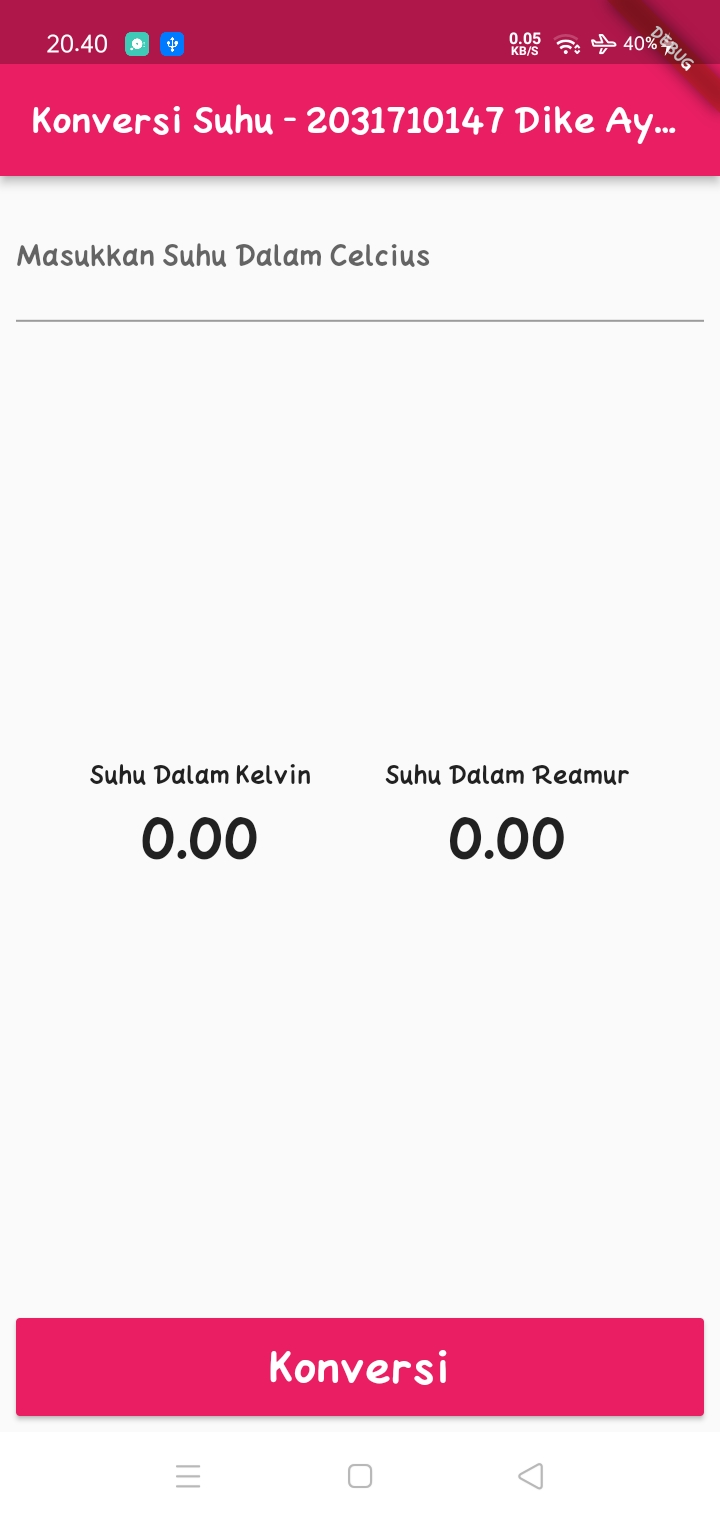
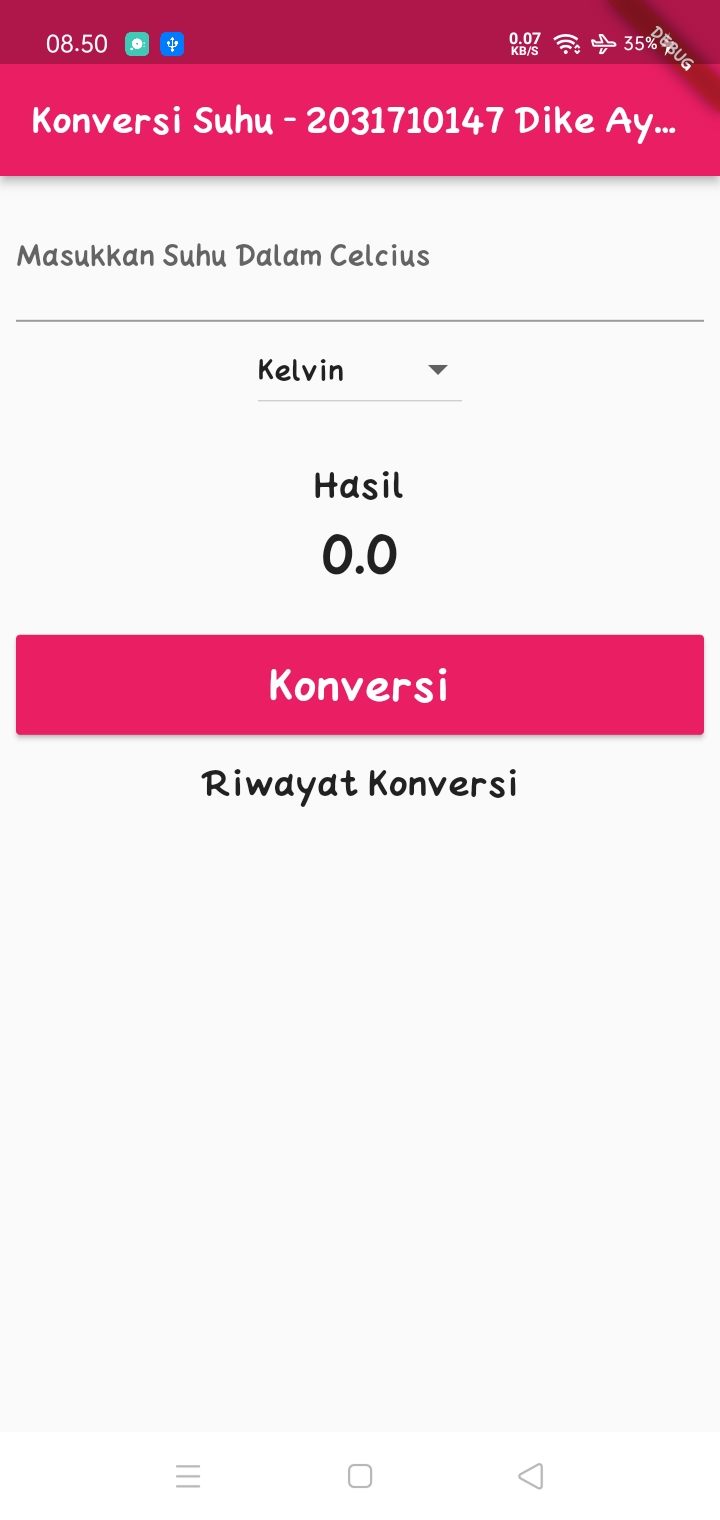
tugas4

diff --git a/lib/main.dart b/lib/main.dart
@@ -1,5 +1,7 @@
 import 'package:flutter/material.dart';
 import 'package:flutter/services.dart';
+import 'package:konversi_suhu/widget/result.dart';
+import 'package:konversi_suhu/widget/input.dart';
 
 void main() {
   runApp(const MyApp());
@@ -9,19 +11,27 @@ class MyApp extends StatefulWidget {
   const MyApp({Key? key}) : super(key: key);
 
   @override
-  State<MyApp> createState() => _MyAppState();
+  State<MyApp> createState() => MyAppState();
 }
 
-class _MyAppState extends State<MyApp> {
+class MyAppState extends State<MyApp> {
   double _inputUser = 0;
   double _kelvin = 0;
   double _reamur = 0;
+  double _fahrenheit = 0;
 
-  final temperaturController = TextEditingController();
+  var listItem = ["Kelvin", "Reamur", "Fahrenheit"];
+
+  final inputController = TextEditingController();
+
+  String _newValue = "Kelvin";
+  double _result = 0;
+
+  List<String> listViewItem = <String>[];
 
   @override
   void dispose() {
-    temperaturController.dispose();
+    inputController.dispose();
     super.dispose();
   }
 
@@ -41,39 +51,27 @@ class _MyAppState extends State<MyApp> {
           body: Container(
             margin: const EdgeInsets.all(8),
             child: Column(
-              mainAxisAlignment: MainAxisAlignment.spaceBetween,
+              mainAxisAlignment: MainAxisAlignment.start,
               children: [
-                TextFormField(
-                  controller: temperaturController,
-                  decoration: const InputDecoration(
-                      labelText: 'Masukkan Suhu Dalam Celcius'),
-                  keyboardType:
-                      const TextInputType.numberWithOptions(decimal: true),
-                  inputFormatters: [
-                    FilteringTextInputFormatter.allow(RegExp(r'[0-9.]'))
-                  ],
-                ),
-                Row(
-                  mainAxisAlignment: MainAxisAlignment.spaceEvenly,
+                Input(inputController: inputController),
+                Column(
                   children: [
-                    Column(
-                      children: [
-                        const Text("Suhu Dalam Kelvin"),
-                        Text(
-                          _kelvin.toStringAsFixed(2),
-                          style: const TextStyle(fontSize: 32),
-                        ),
-                      ],
+                    DropdownButton<String>(
+                      items: listItem.map((String value) {
+                        return DropdownMenuItem<String>(
+                          value: value,
+                          child: Text(value),
+                        );
+                      }).toList(),
+                      value: _newValue,
+                      onChanged: (String? changeValue) {
+                        setState(() {
+                          _newValue = changeValue!;
+                        });
+                        convert();
+                      },
                     ),
-                    Column(
-                      children: [
-                        const Text("Suhu Dalam Reamur"),
-                        Text(
-                          _reamur.toStringAsFixed(2),
-                          style: const TextStyle(fontSize: 32),
-                        )
-                      ],
-                    )
+                    Result(result: _result)
                   ],
                 ),
                 MaterialButton(
@@ -87,8 +85,25 @@ class _MyAppState extends State<MyApp> {
                   color: Colors.pink,
                   textColor: Colors.white,
                   minWidth: double.maxFinite,
-                  padding: const EdgeInsets.all(8),
+                  height: 50,
                 ),
+                Container(
+                  margin: EdgeInsets.only(top: 10, bottom: 10),
+                  child: Text(
+                    "Riwayat Konversi",
+                    style: TextStyle(fontSize: 20),
+                  ),
+                ),
+                Expanded(
+                    child: Column(
+                        children: listViewItem.map((String value) {
+                  return Container(
+                      margin: const EdgeInsets.all(10),
+                      child: Text(
+                        value,
+                        style: const TextStyle(fontSize: 15),
+                      ));
+                }).toList()))
               ],
             ),
           ),
@@ -96,10 +111,16 @@ class _MyAppState extends State<MyApp> {
   }
 
   void convert() {
-    _inputUser = double.parse(temperaturController.text);
     setState(() {
-      _kelvin = _inputUser + 273.15;
-      _reamur = _inputUser * 0.8;
+      _inputUser = double.parse(inputController.text);
+      if (_newValue == "Kelvin") {
+        _result = _inputUser + 273.15;
+      } else if (_newValue == "Reamur") {
+        _result = 0.8 * _inputUser;
+      } else {
+        _result = (_inputUser * 1.8) + 32;
+      }
+      listViewItem.add(_newValue + ": " + _result.toStringAsFixed(2));
     });
   }
 }

diff --git a/lib/widget/result.dart b/lib/widget/result.dart
@@ -1,0 +1,31 @@
+import 'package:flutter/material.dart';
+
+class Result extends StatelessWidget {
+  const Result({
+    Key? key,
+    required this.result,
+  }) : super(key: key);
+
+  final double result;
+
+  @override
+  Widget build(BuildContext context) {
+    return Container(
+      margin: const EdgeInsets.only(top: 20, bottom: 20),
+      child: Column(
+        mainAxisAlignment: MainAxisAlignment.center,
+        children: [
+          Text(
+            "Hasil",
+            style: TextStyle(fontSize: 20),
+          ),
+          Text(
+            result.toStringAsFixed(1),
+            style: TextStyle(fontSize: 30),
+          )
+        ],
+      ),
+    );
+// );
+  }
+}

diff --git a/lib/widget/input.dart b/lib/widget/input.dart
@@ -1,0 +1,22 @@
+import 'package:flutter/material.dart';
+import 'package:flutter/services.dart';
+
+class Input extends StatelessWidget {
+  const Input({
+    Key? key,
+    required this.inputController,
+  }) : super(key: key);
+
+  final TextEditingController inputController;
+
+  @override
+  Widget build(BuildContext context) {
+    return TextFormField(
+      controller: inputController,
+      decoration:
+          const InputDecoration(labelText: 'Masukkan Suhu Dalam Celcius'),
+      keyboardType: const TextInputType.numberWithOptions(decimal: true),
+      inputFormatters: [FilteringTextInputFormatter.allow(RegExp(r'[0-9.]'))],
+    );
+  }
+}

diff --git a/README.md b/README.md
@@ -1,11 +1,12 @@
-# Jobsheet 3
+# Jobsheet 4
 
 Nama: Dike Ayu Wardani <br/>
 NIM: 2031710147 <br/>
 Kelas: MI-2C <br/>
 Prodi: D3 MI <br/>
 
-## Hasil Praktikum Jobsheet 3
+## Hasil Praktikum Jobsheet 4
 ![Screenshot Hasil](img/1_hasil.jpg)
 ![Screenshot Hasil](img/2_hasil.jpg)
 ![Screenshot Hasil](img/3_hasil.jpg)
+![Screenshot Hasil](img/4_hasil.jpg)
